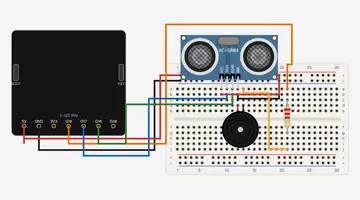
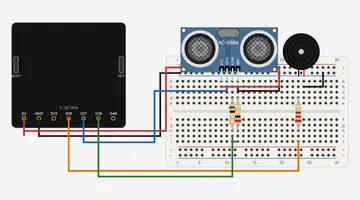
超音波範例 ECHO 加分壓、5 V 進腳位警告（2026-11-21）

diff --git a/sim/circuit.js b/sim/circuit.js
@@ -245,7 +245,7 @@ function solveStep(circuit, io = {}, extraLinks = []) {
       // 模組：供電腳之間放一個負載（算得出有沒有供電），訊號腳高阻抗
       case "ssd1306": addR(a("3V3"), a("GND"), 330); addR(a("VIN"), a("GND"), 330); for (const q of ["DATA", "CLK"]) addR(a(q), -1, 1e6); break;
       case "lcd1602": addR(a("VCC"), a("GND"), 200); for (const q of ["SDA", "SCL"]) addR(a(q), -1, 1e6); break;
-      case "hc-sr04": addR(a("VCC"), a("GND"), 330); addR(a("TRIG"), -1, 1e6); { const pv = V0(a("VCC")) - V0(a("GND")); const lv = (u.echoLevel || 0) && pv > 2.5 ? Math.min(pv, VL) : 0; addV(a("ECHO"), -1, lv, 100, "mod:" + id); } break;
+      case "hc-sr04": addR(a("VCC"), a("GND"), 330); addR(a("TRIG"), -1, 1e6); { const pv = V0(a("VCC")) - V0(a("GND")); const lv = (u.echoLevel || 0) && pv > 2.5 ? pv : 0;   /* ECHO 高電位＝模組自己的供電（5 V 供電就是 5 V），不再夾到 3.3 V：真模組會把 5 V 灌進 ESP32 腳位（2026-11-20 影片對話回報） */ addV(a("ECHO"), -1, lv, 100, "mod:" + id); } break;
       case "dht22": addR(a("VCC"), a("GND"), 5000); addR(a("SDA"), -1, 1e6); break;
       case "neopixel-strip": addR(a("VCC"), a("GND"), 60); addR(a("DIN"), -1, 1e6); break;
       case "pir": addR(a("VCC"), a("GND"), 2000); { const pv = V0(a("VCC")) - V0(a("GND")); addV(a("OUT"), -1, u.motion && pv > 2.5 ? 3.3 : 0, 100, "mod:" + id); } break;
@@ -504,6 +504,11 @@ function solveStep(circuit, io = {}, extraLinks = []) {
       case "acsource": st.v = vp("+") - vp("-"); break;
       case "lm358": st.powered = vp("VCC") - vp("GND") > 2.5; st.out1 = vp("OUT1") - vp("GND"); st.out2 = vp("OUT2") - vp("GND"); break;
       case "gate": { const q = nonlin.find((x) => x.type === "gate" && x.part === id); st.y = !!(q && q.y); st.powered = vp("VCC") - vp("GND") > 2.5; break; }
+    }
+    if (p.type === "hc-sr04" && VL < 4 && vp("VCC") - vp("GND") > 3.6) {
+      /* ESP32 腳位高電位上限約 VDD＋0.3 V（3.6 V，Espressif 資料表 5.1／5.3 節）；5 V 供電的 HC-SR04 ECHO 直接接 GPIO 會超過 */
+      const echoNet = N.find(id + ":ECHO"), g = B.gpios.find((gg) => N.find("board:" + gg) === echoNet);
+      if (g !== undefined) warn("ECHO_5V", id, `${id} 的 ECHO 直接接 ${gpioName(circuit.board, g)}：5 V 訊號進 3.3 V 腳位`, `為什麼：HC-SR04 用 ${(vp("VCC") - vp("GND")).toFixed(1)} V 供電時，ECHO 回波腳也輸出同樣的電壓；ESP32 腳位最高只能承受約 3.6 V，長期接 5 V 會傷到腳位（模擬器照樣讀得到，實機可能壞掉）。`, "怎麼改：ECHO 先經 1 kΩ 再接腳位，腳位再經 2 kΩ 接 GND（分壓成約 3.3 V；沒有 2 kΩ 可用兩顆 1 kΩ 串聯）；或改用 3.3 V 也能用的超音波模組（例如 HC-SR04P）並接 3V3。", { net: echoNet });
     }
     if (st.powered === false && !io.unpowered && ["ssd1306", "lcd1602", "hc-sr04", "dht22", "neopixel-strip", "pir", "relay", "joystick"].includes(p.type)) {
       const hasAnyWire = PARTS[p.type].pins.some((pin) => (N.nets[N.find(id + ":" + pin)] || []).some((m) => !m.startsWith(id + ":") && !m.startsWith("bb:")));

diff --git a/sim/sim.js b/sim/sim.js
@@ -561,7 +561,20 @@ export function createSimulator(opts) {
 
   /** 元件層接上引擎：每個第二批元件一個 attachPart；接線變了就通知它們重新登記腳位 */
   const ctx = {
-    gpioOf: (id, pin) => { const r = lastResult; if (!r) return null; const members = r.nets.nets[r.nets.find(id + ":" + pin)] || []; for (const m of members) { const g = /^board:(\d+)$/.exec(m); if (g) return Number(g[1]); } return null; },
+    gpioOf: (id, pin) => {
+      const r = lastResult; if (!r) return null;
+      const gpioIn = (members) => { for (const m of members) { const g = /^board:(\d+)$/.exec(m); if (g) return Number(g[1]); } return null; };
+      const members = r.nets.nets[r.nets.find(id + ":" + pin)] || [];
+      const direct = gpioIn(members); if (direct !== null) return direct;
+      /* 隔一顆電阻也算：訊號線串電阻、分壓（HC-SR04 的 ECHO 經 1k／2k 分壓再進 ESP32，2026-11-20）時模組仍要知道接在哪支腳 */
+      for (const m of members) {
+        const i = m.indexOf(":"), rid = m.slice(0, i), p = doc.parts[rid];
+        if (!p || p.type !== "resistor") continue;
+        const other = m.slice(i + 1) === "1" ? "2" : "1";
+        const g = gpioIn(r.nets.nets[r.nets.find(rid + ":" + other)] || []); if (g !== null) return g;
+      }
+      return null;
+    },
     powered: (id) => !!(lastResult?.parts?.[id]?.powered ?? true),
     level: (g) => (pinState[g] ? pinState[g].level : null),
     ui,
